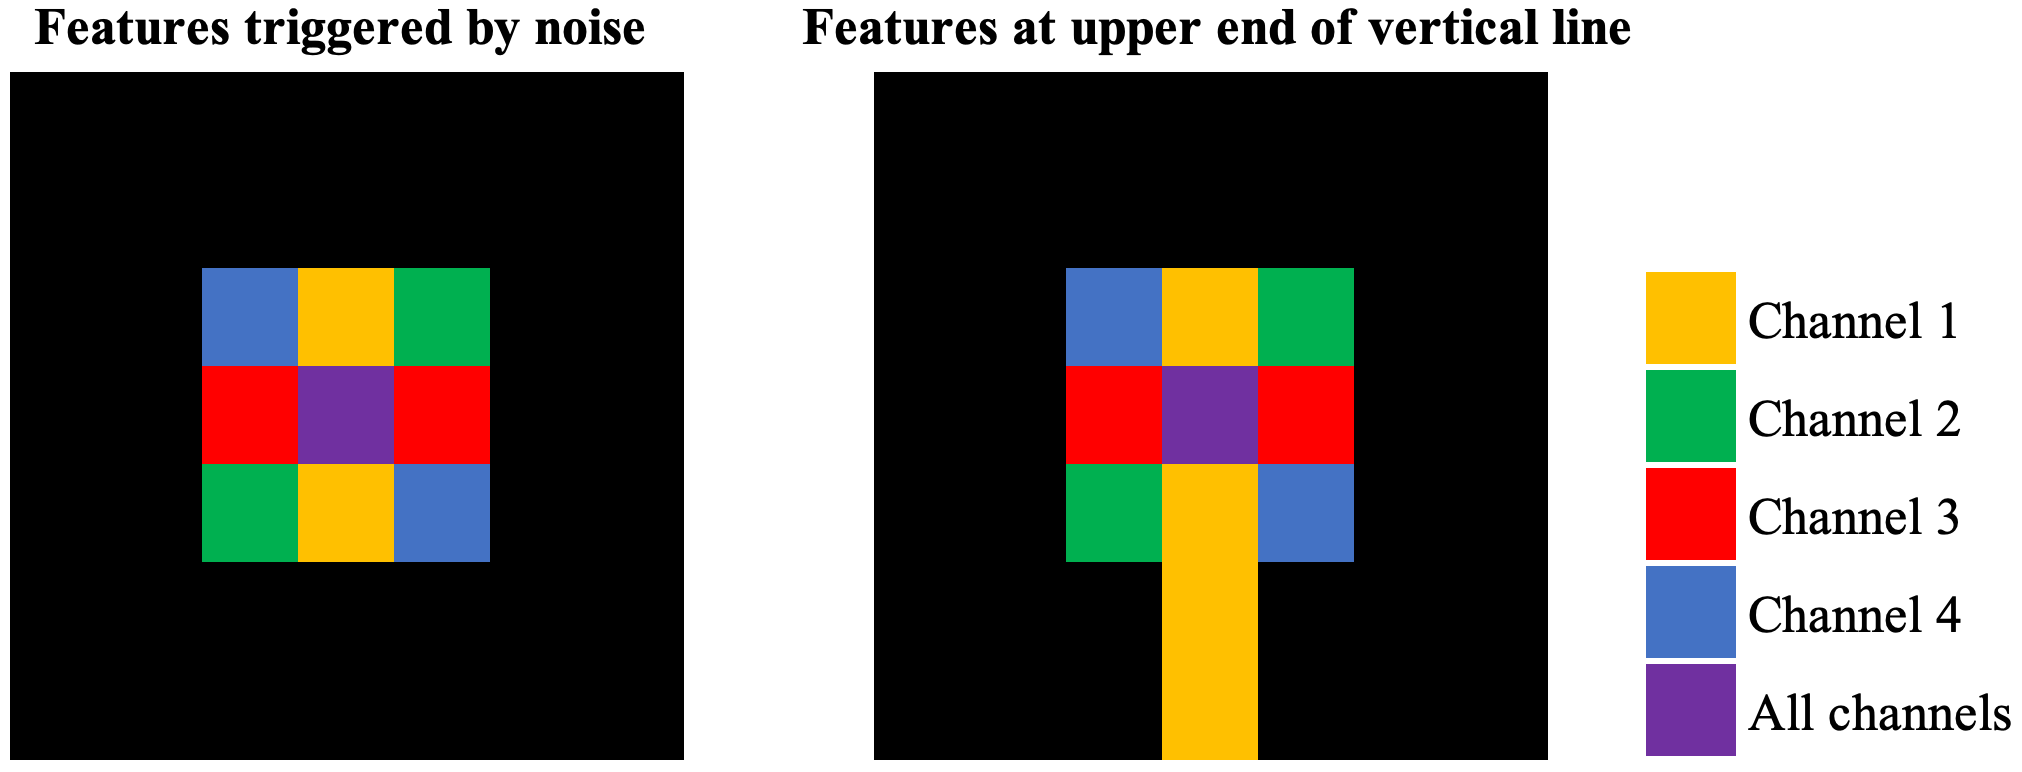
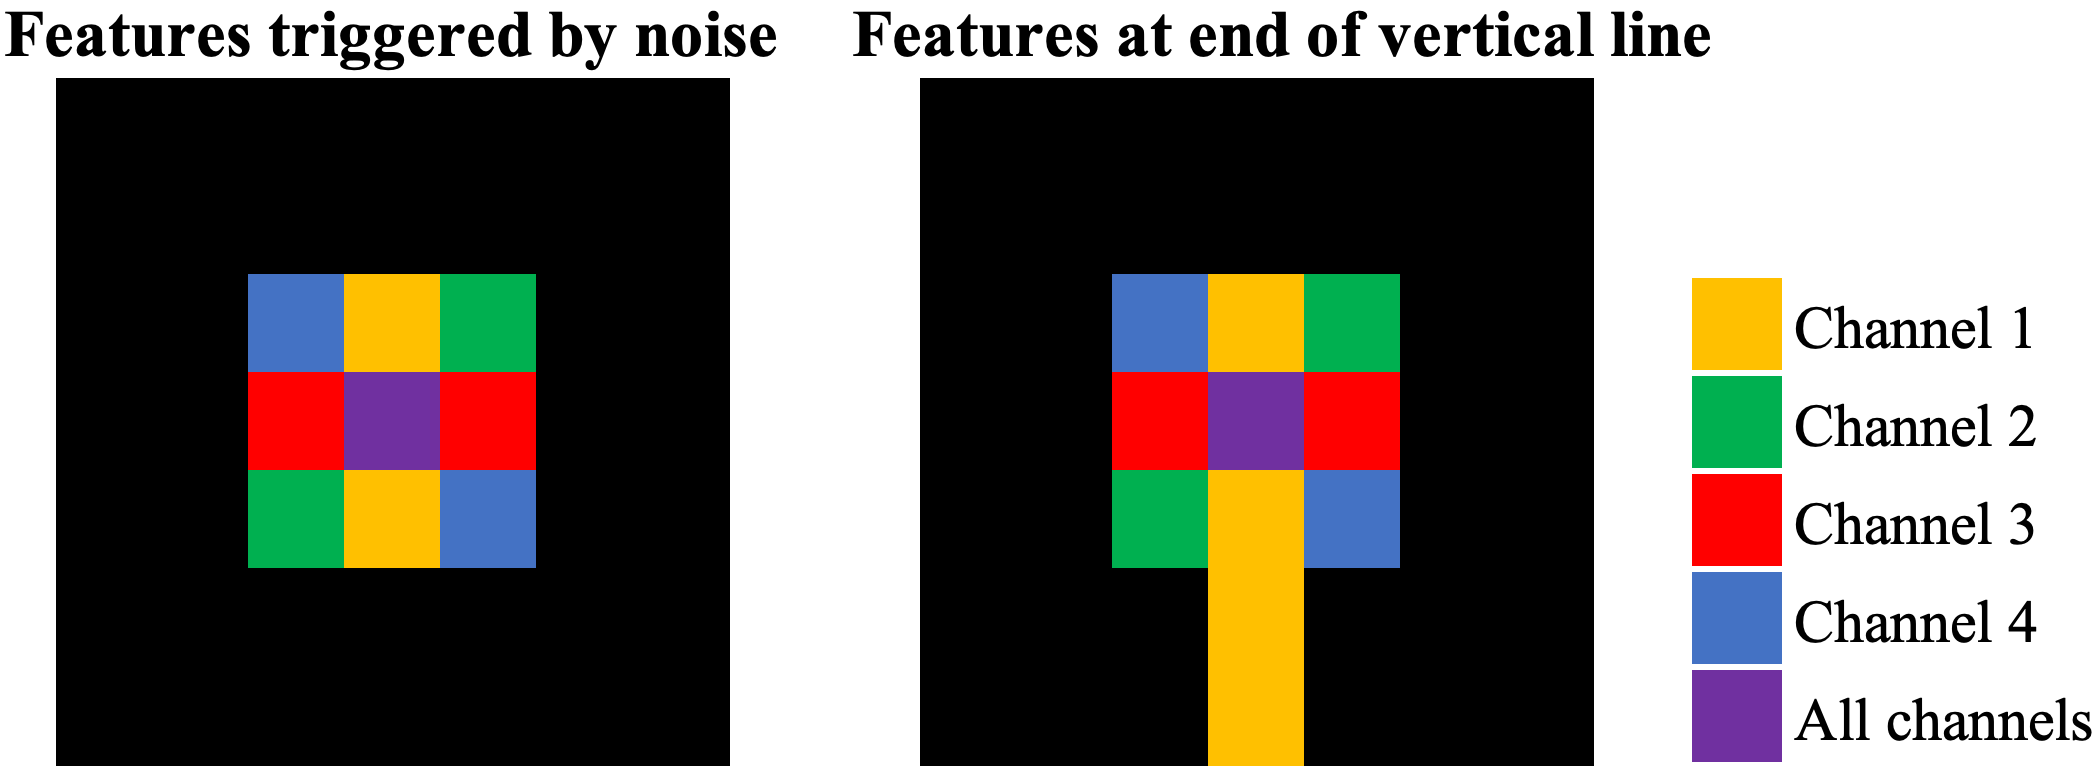
Updates from Overleaf

diff --git a/tex/results.tex b/tex/results.tex
@@ -12,14 +12,14 @@ The code and documentation are made publicly available. Further information can 
 %
 An overview of the entire system is provided in \figref{r1_overview}.
 This image is derived from a video available online at \href{https://sagerpascal.github.io/lateral-connections/results/final_results.html#video-visualisations}{sagerpascal.github.io/lateral-connections} or with the QR code on the top right of the figure.
-For a detailed explanation of the components shown in the video, please refer to \secref{result_video}.
+For a detailed explanation of the components shown in the video, please refer to appendix \secref{result_video}.
 The video shows the network's activations for a straight line rotated counterclockwise around its centre.
 In the lower part of \figref{r1_overview}, a series of five network states is shown shortly before and after a vertical line is reached.
 
 The network has only been trained on vertical, horizontal, and diagonal lines.
-Therefore, many lines fed into the network in this video represent unknown objects.
-However, \emph{S1} still detect some learned patterns, such as multiple pixels aligned vertically, horizontally, or diagonally.
-Therefore, it can provide lateral support between local pixel groups representing such a pattern.
+Therefore, many lines fed into the network in this video represent unknown objects\sidenote{With projection fibres, such transformed objects instances should be mapped to the same prototype. However, the memory used cannot deal with such transformations.}.
+Nevertheless, \emph{S1} still detect some learned patterns, such as multiple pixels aligned vertically, horizontally, or diagonally.
+Therefore, it can provide lateral support between local pixel groups representing such a local pattern.
 The closer the input becomes to a learned pattern, the bigger the lateral support.
 At time $t_3$, the input corresponds to a vertical line as observed during training.
 In that case, all pixels receive enough lateral support to remain active.
@@ -31,7 +31,7 @@ When replacing the memory used to simulate \emph{S2} with projection fibres, the
 
 The network's behaviour is as expected: \emph{S1} builds net fragments based on well-known patterns observed during training.
 All input features observed during training receive full lateral support.
-Moreover, images not seen during training also contain local patterns similar to those from the training data and, therefore, still receive local support through lateral connections.
+Moreover, images not seen during training also contain local patterns similar to those from the training data and, therefore, still receive local support.
 \emph{S2} responds to patterns stored in its memory, only providing support to \emph{S1} for objects seen during training.
 
 Furthermore, all samples seen during training have automatically been saved in \emph{S2}.
@@ -50,13 +50,13 @@ However, the net fragments are more robust than the sensory system, as shown in 
 \figref{r2_overview} refers to a video demonstrating the network's behaviour when noise is added to the input data.
 The noise is generated by randomly flipping a pixel in the input data from $0$ to $1$ or vice versa with a probability of $0.005$.
 
-To assess the network's ability to deal with noise, the same input is fed into the model twice: once with noise and once without. The activations of \emph{S1} for these two versions of the input image are compared, and the percentage of feature cells that are initially triggered by the introduced noise but subsequently deactivated due to insufficient support is measured.
+To assess the network's ability to deal with noise, the same input is fed into the model twice: once with and once without noise. The activations of \emph{S1} for these two versions of the input image are compared, and the percentage of feature cells that are initially triggered by the introduced noise but subsequently deactivated due to insufficient support is measured.
 
-This analysis shows that the system can remove about $71.2\%$ of the noise from the input data. However, this effectiveness is mainly due to the fact that a single noise pixel triggers $3$ cells in each feature channel of the sensory system, resulting in $12$ active cells. After building net fragments, only the cells in the centre of the four feature channels remain active, giving the impression that the noise has been removed while, in reality, it only has been reduced.
+This analysis shows that the system can remove about $71.2\%$ of the noise from the input data. However, this effectiveness is mainly because a single noise pixel triggers $3$ cells in each feature channel of the sensory system, resulting in $12$ active cells. After building net fragments, only the cells at the centre of the four feature channels remain active, giving the impression that the noise has been removed while, in reality, it only has been reduced.
 
 \begin{figure}[h]
     \centering
-    \includegraphics[width=0.69\textwidth]{features_noise_data}
+    \includegraphics[width=0.79\textwidth]{features_noise_data}
     \caption[Features triggered by noise]{The features triggered by noise (on the left) compared with the features triggered by a line end (on the right).}
     \figlbl{features_noise_data}
 \end{figure}
@@ -95,7 +95,7 @@ The noise that is not removed is the noise that is very close to the actual line
     \figlbl{r4_overview}
 \end{figure}
 %
-Lateral connections can not only reduce noise but also recreate occluded objects.
+Net fragments \sidecite{von_der_malsburg_theory_2022, von_der_malsburg_concerning_2018} can not only reduce noise but also recreate occluded objects.
 This phenomenon is demonstrated by analysing the network's behaviour if a discontinuous line is fed into the network.
 \figref{r4_overview} contains a QR code linking to a video demonstrating that \emph{S1} is able to reconstruct lines that are interrupted by up to $8$ pixels.
 
@@ -111,8 +111,7 @@ The impressive ability to reconstruct up to $8$ missing pixels with this setting
 
 
 \subsection{S2 Feedback}\seclbl{results_s2_feedback}
-So far, lines have been reconstructed based on net fragments and lateral support present in \emph{S1}.
-In the following, feedback from \emph{S2} is additionally incorporated in \emph{S1}, and it is analysed if \emph{S1} can efficiently utilise it.
+In the following, feedback from \emph{S2} is additionally incorporated in \emph{S1}, and it is analysed if \emph{S1} can efficiently utilise it to reconstruct lines.
 Please note that not all aspects from \emph{S2} are implemented, and it is a memory that returns stored net fragments if they are similar to an observation.
 Therefore, it only works for the examples the network encountered during the training process, i.e. for vertical, horizontal, and diagonal lines.
 
@@ -126,11 +125,11 @@ Therefore, it only works for the examples the network encountered during the tra
 \figref{s2_feedback_heatmap} visualises the activation probabilities for all cells across the four output channels for a vertical line with $20$ missing pixels.
 The top row shows the probabilities when no feedback form \emph{S2} is incorporated, and the bottom row the probabilities after the feedback is incorporated.
 
-As visible in the top row of \figref{s2_feedback_heatmap}, without incorporating feedback from \emph{S2}, the line cannot be fully reconstructed using lateral connections in \emph{S1}, as $20$ of missing pixels exceeds the range of lateral connections. However, \emph{S2} is still able to map the line with missing pixels to the correct prototype and provide appropriate feedback. After the feedback is incorporated, the activation probabilities for the entire vertical line increase significantly. Especially in the middle section, where the pixels have been removed, the activation probabilities increase from $0\%$ to approximately $65\%$.
+As visible in the top row of \figref{s2_feedback_heatmap}, without incorporating feedback from \emph{S2}, the line cannot be fully reconstructed using lateral connections in \emph{S1}, as $20$ of missing pixels exceeds the range of lateral connections. However, \emph{S2} is still able to map the line with missing pixels to the correct prototype and provide appropriate feedback. After the feedback is incorporated, the activation probabilities for the entire vertical line increase significantly. Especially in the middle section of the first channel, the activation probabilities increase from $0\%$ to approximately $65\%$.
 
 When a continuous vertical line is fed into the system, the activation probability in the middle section of the line is above $90\%$.
 This high probability aligns with the fact that the sensory signal and the memory's feedback are consistent.
-However, when the memory expects activations that are not detected by the sensory system (e.g. due to the missing pixels), the activation probability decreases. This behaviour reflects meaningful modelling of the network's uncertainty when integrating feedback from \emph{S2} when occluded objects are encountered.
+However, when the memory expects activations that are not detected by the sensory system (e.g. due to the missing pixels), the activation probability decreases. This behaviour reflects meaningful modelling of the network's uncertainty when integrating feedback from \emph{S2} while encountering occluded objects.
 
 In conclusion, the feedback from \emph{S2} can be effectively incorporated into \emph{S1}.
 It helps to deal with occluded objects and creates stability in net fragments, even when the sensory system does not detect (occluded) parts of the object.
@@ -170,7 +169,7 @@ Thus, at the ends of the vertical line, about three neurons respond for each cha
 These features extracted by the sensory system are fed into the channels $1$-$4$ of \emph{S1}.
 As expected, these features have been incorporated into the weight matrix accordingly (see $A1$-$A4$).
 
-Based on these features, output channel $A$ generates a response roughly corresponding to the vertical line originally fed into the system.
+Based on these features, output channel $A$ generates a response roughly corresponding to the vertical line initially fed into the system.
 Thus, channel $A$ fulfils its purpose and represents vertical lines.
 Besides channel $A$, also the channels $B$-$D$ become active.
 However, these channels specialise in different lines and only activate exactly one pixel at the line ends, where the sensory system produces a very high activity across all channels.
@@ -197,7 +196,7 @@ Normalising the weights is crucial for the proper functioning of the network. Wi
 After $10$ epochs without weight normalisation, some lateral connections reach a weight above $74$ and dominate the decision process of whether neighbouring cells should remain active.
 This leads to undesired activations and weight updates. 
 \figref{weights_no_norm} depicts the weight matrix after $10$ epochs if trained without weight normalisation.
-No clear structure is visible within the weights, and the support provided within the network appears rather random. 
+No clear structure is visible within the weights, and the support provided within the network appears somewhat random. 
 Thus, normalisation is not only biologically more plausible but also a necessity to obtain meaningful lateral weights.
 
 
@@ -255,7 +254,6 @@ This effect is visible when comparing the blue interval (without inhibition) wit
 
 \figref{support_strength} show that cells can receive lateral support strengths of up to $21$ when no inhibitory signals are present in the network (see the max. values of the blue interval).
 However, such strong support leads to undesired effects, as discussed in the next section.
-When using an upper support limit $\rho$, the model tends to find a trade-off that only slightly surpasses this inhibition limit, thereby maximising the lateral support each cell receives while ensuring that each cell has a high activation probability.
 
 The results depicted in \figref{support_strength} demonstrate that \emph{S1} builds net fragments as expected. The gap between the support strength of active and inactive cells becomes bigger during training, ensuring that only cells representing known patterns remain active.
 
@@ -274,7 +272,7 @@ The top row shows the probabilities of a model trained without inhibition, while
 As discussed, all filters are active at the line ends, leading to many active cells and high lateral support in that region.
 Specifically, the cell located at the line end receives lateral support from up to $21$ neighbouring cells if no inhibition is used.
 When an activation strength of $21$ is mapped to an activation probability of $1.0$ and an activation strength of $0$ to $0.0$, the cells receive activation probabilities as visualised in the upper row of \figref{inhibition_heatmap}.
-The pixels located at the line ends are dominant and have an activation probability of $1.0$, while the other pixels on the line have an activation probability of approximately $0.4$.
+The pixels at the line ends are dominant and have an activation probability of $1.0$, while the other pixels on the line have an activation probability of approximately $0.4$.
 Therefore, only the cells at the line ends have a high activation probability but not the other cells depicting the middle of the line.
 
 Introducing inhibition effectively addresses this issue.
@@ -291,12 +289,12 @@ With inhibition, the channels specialise more on distinct features as no feature
 
 \section{Conclusion}
 The previous sections discuss the obtained results, thereby focusing on specific aspects.
-In conclusion, \emph{S1} can build net fragments, and it is demonstrated that these fragments associate input patterns with learned patterns, thereby removing noise or reconstructing occluded parts of objects.
-Since removing noise and reconstructing objects improves representations over multiple timesteps, it is considered a hierarchical processing of features without being subject to early commitment.
+In conclusion, \emph{S1} can build net fragments \sidecite{von_der_malsburg_theory_2022, von_der_malsburg_concerning_2018}, and it is demonstrated that these fragments associate input patterns with learned patterns, thereby removing noise or reconstructing occluded parts of objects.
 Thus, the experiments demonstrate that net fragments can be implemented according to the proposed principles.
+Since removing noise and reconstructing objects improves representations over multiple timesteps, it is considered a hierarchical processing of features without being subject to early commitment \sidecite{marr_vision_2010}.
 
-This is considered an important step towards implementing the proposed framework.
-Implementing projection fibres is based on the principle of comparing local features in \emph{S1} and \emph{S2} and initiating a mapping between them if neighbouring fibres agree \sidecite{bienenstock_neural_1987, lades_distortion_1993, wiskott_face_1996}.
+This is considered an essential step towards implementing the proposed framework.
+Implementing projection fibres \sidecite{tanigawa_organization_2005, greig_molecular_2013} is based on the principle of comparing local features in \emph{S1} and \emph{S2} and initiating a mapping between them if neighbouring fibres agree \sidecite{bienenstock_neural_1987, lades_distortion_1993, wiskott_face_1996}.
 Such a mapping only works well if patterns in the two stages are highly similar.
-This is achieved with net fragments that either turn off cells representing unknown patterns that are not present in \emph{S2} and thus cannot be mapped or support and reconstruct (i.e. optimise) existing patterns to become more similar to patterns stored in \emph{S2}.
-Thus, the conducted experiments lay the foundation for future research and implementing projection fibres that map net fragments instead of cells as done in previous work (c.f. \secref{projection_fibres}).
+As demonstrated in this chapter, this can be achieved with net fragments that either turn off cells representing unknown patterns that are not present in \emph{S2} and thus cannot be mapped or support and reconstruct (i.e. optimise) existing patterns to become more similar to patterns stored in \emph{S2}.
+Thus, the conducted experiments lay the foundation for future research and implementing projection fibres.
